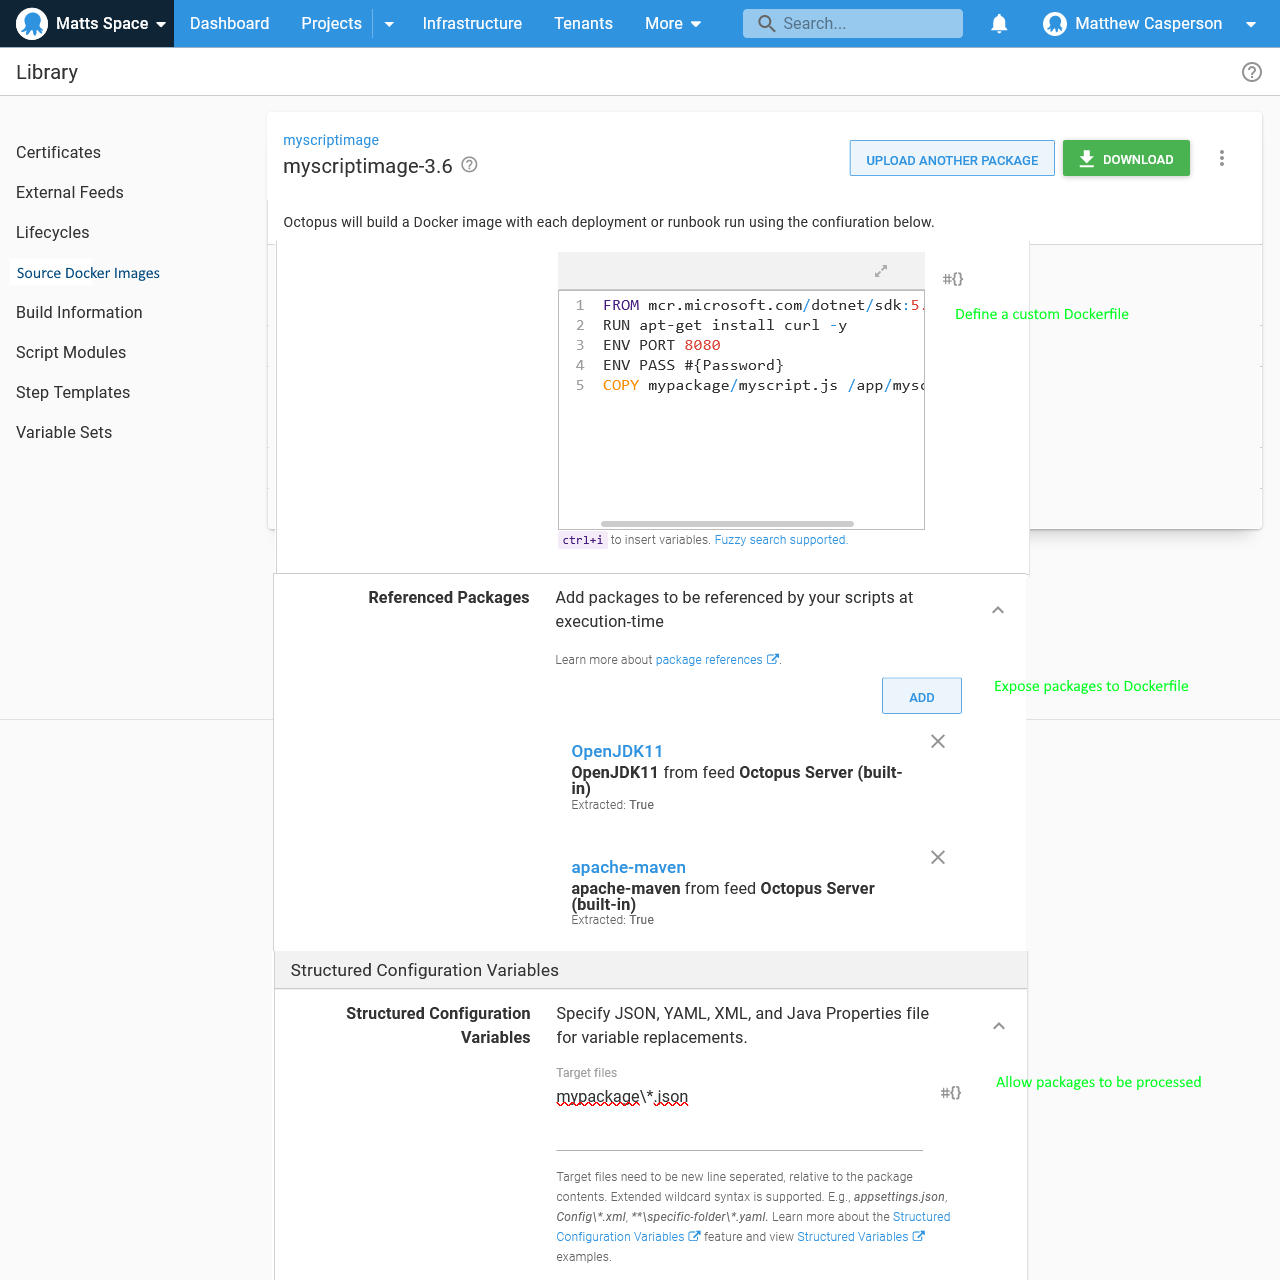
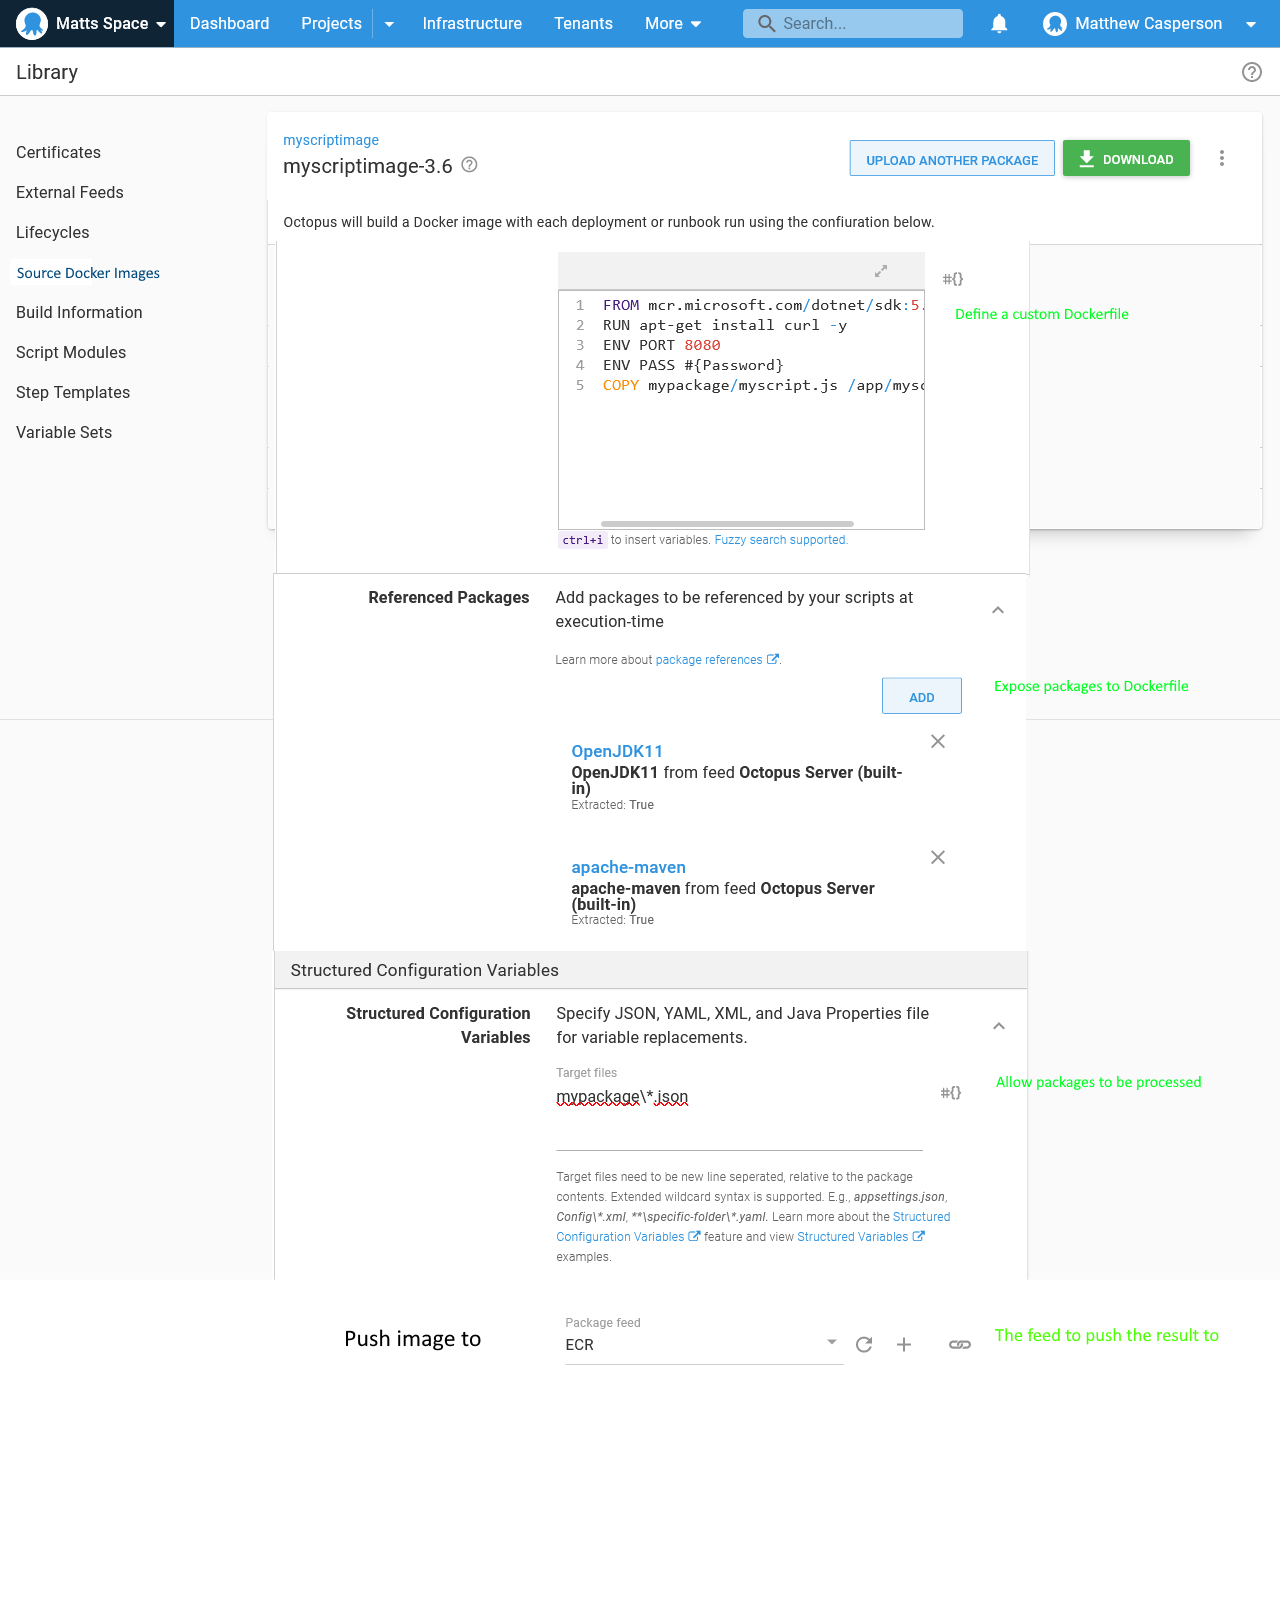
fixed up image

diff --git a/blog/2021-08/source-docker-image/index.md b/blog/2021-08/source-docker-image/index.md
@@ -1,5 +1,5 @@
 ---
-title: Integrated Docker registry
+title: Source Docker Images
 description: Learn how Octopus is evolving to be the best deployment tool in 2022.
 author: matthew.casperson@octopus.com
 visibility: private # DO NOT CHANGE THIS!!!! This is not a public post!
@@ -26,7 +26,7 @@ Octopus has similarly seen steadily increasing usage of Docker feeds:
 
 However, migrating to containerized applications presents a challenge for teams that have relied on features like **Structured Configuration Variables**, **Substitute Variables in Templates**, **.NET Configuration Variables**, and **.NET Configuration Transforms**.
 
-We are also seeing customers increasingly looking to customize container images (see [here](https://octopusdeploy.slack.com/archives/C012AMYFLPR/p1626360196275400) and [here](https://octopusdeploy.slack.com/archives/C012AMYFLPR/p1626383358283600)). This is still quite an involved process involving build and publishing images outside of Octopus to external Docker registries.
+Customers are also increasingly looking to customize container images (see [here](https://octopusdeploy.slack.com/archives/C012AMYFLPR/p1626360196275400) and [here](https://octopusdeploy.slack.com/archives/C012AMYFLPR/p1626383358283600)). This is still quite an involved process involving build and publishing images outside of Octopus to external Docker registries.
 
 This post proposes a process through which environment specific Docker images can be deployed much like traditional application artifacts and allows container images to be generated on the fly.
 
@@ -37,6 +37,8 @@ We want to make it easy to migrate to container deployments and to provide custo
 ### Building environment specific Docker images
 
 The traditional advice for building environment agnostic Docker images has been to [externalize all configuration via environment variables](https://12factor.net/config). This is certainly good advice for a number of scenarios, but does require many legacy applications to be redesigned to load external values, and does not support the traditional (and much used) configuration file modification features in Octopus.
+
+A interesting discussion on this topic can be found in the [Octopus community Slack #advice channel](https://octopususergroup.slack.com/archives/C6UGLUWMQ/p1617283641350800).
 
 By having Octopus build Docker images for each environment, we offer a logical upgrade path for legacy applications, especially those that have relied on configuration file modification.
 
@@ -59,7 +61,8 @@ Any step that can reference a Docker image (including container images) as part 
 1. Extract the SDI along with any additional packages it references.
 2. Perform file modifications with traditional features such as **Structured Configuration Variables**, **Substitute Variables in Templates**, **.NET Configuration Variables**, and **.NET Configuration Transforms**.
 3. Run `docker build`, and push the resulting image to the built-in Docker registry with a deployment specific tag like `1.2.0-deployments-75`.
-4. The step referencing the SDI is then passed the image reference like `octopusserver:8080/spaces-1/mywebapp:1.2.0-deployments-75`.
+4. The new Docker image is pushed to the associated Docker registry.
+5. The step referencing the SDI is then passed the image reference like `myregistry:8080/spaces-1/mywebapp:1.2.0-deployments-75`.
 
 ![](mockup.png)
 
